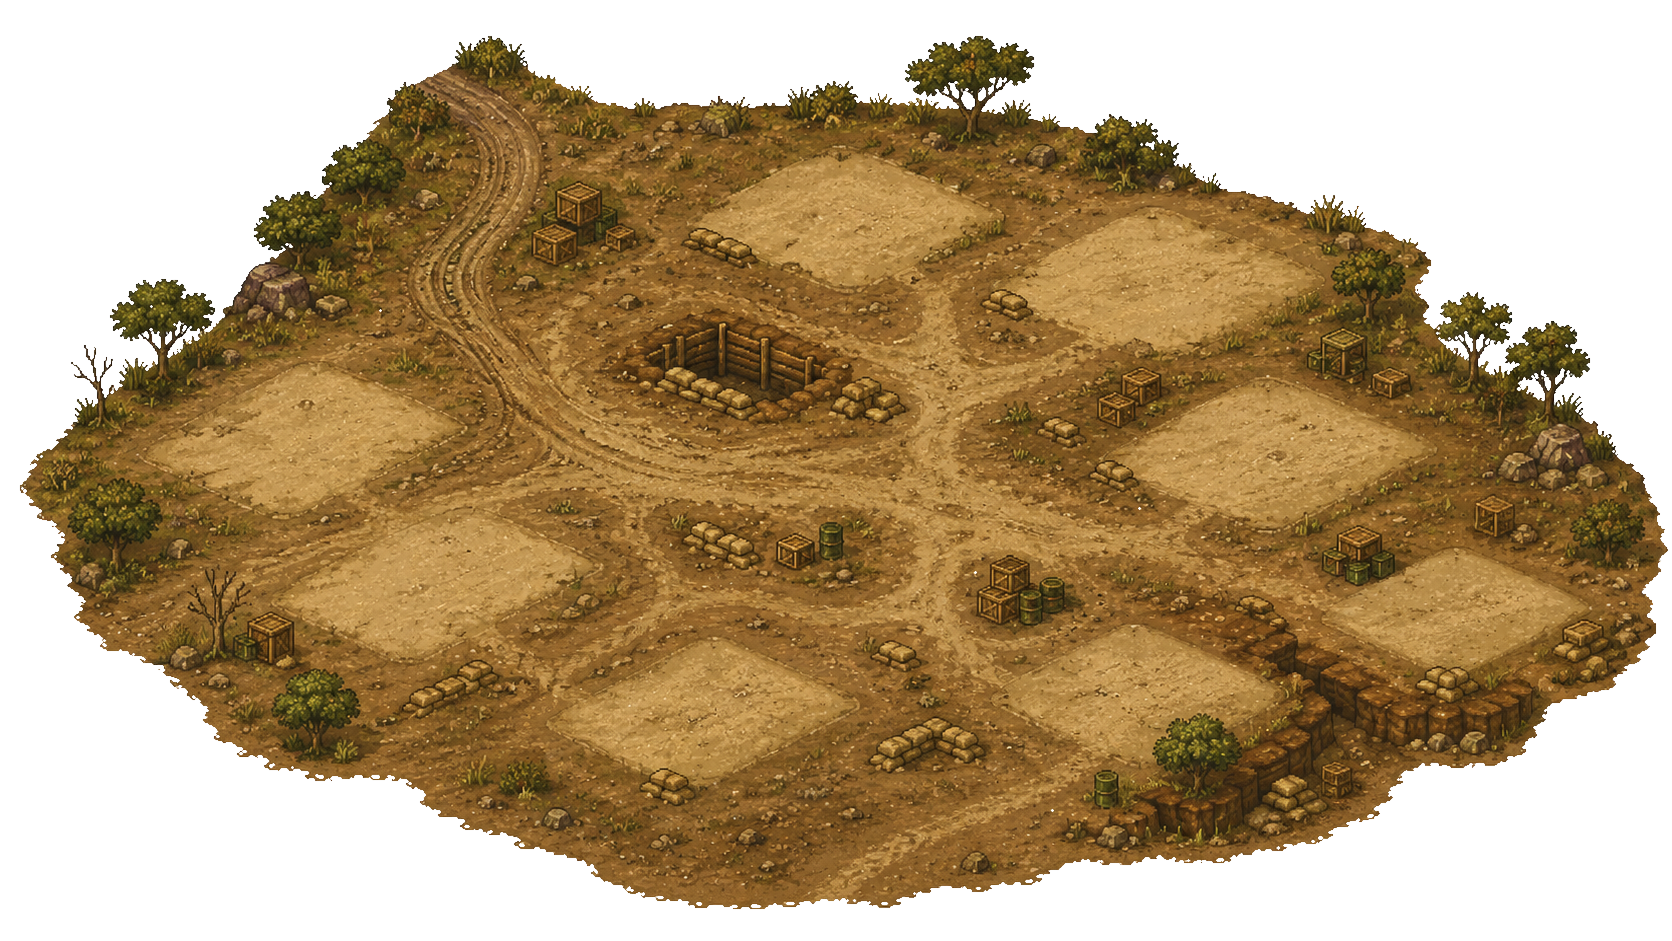
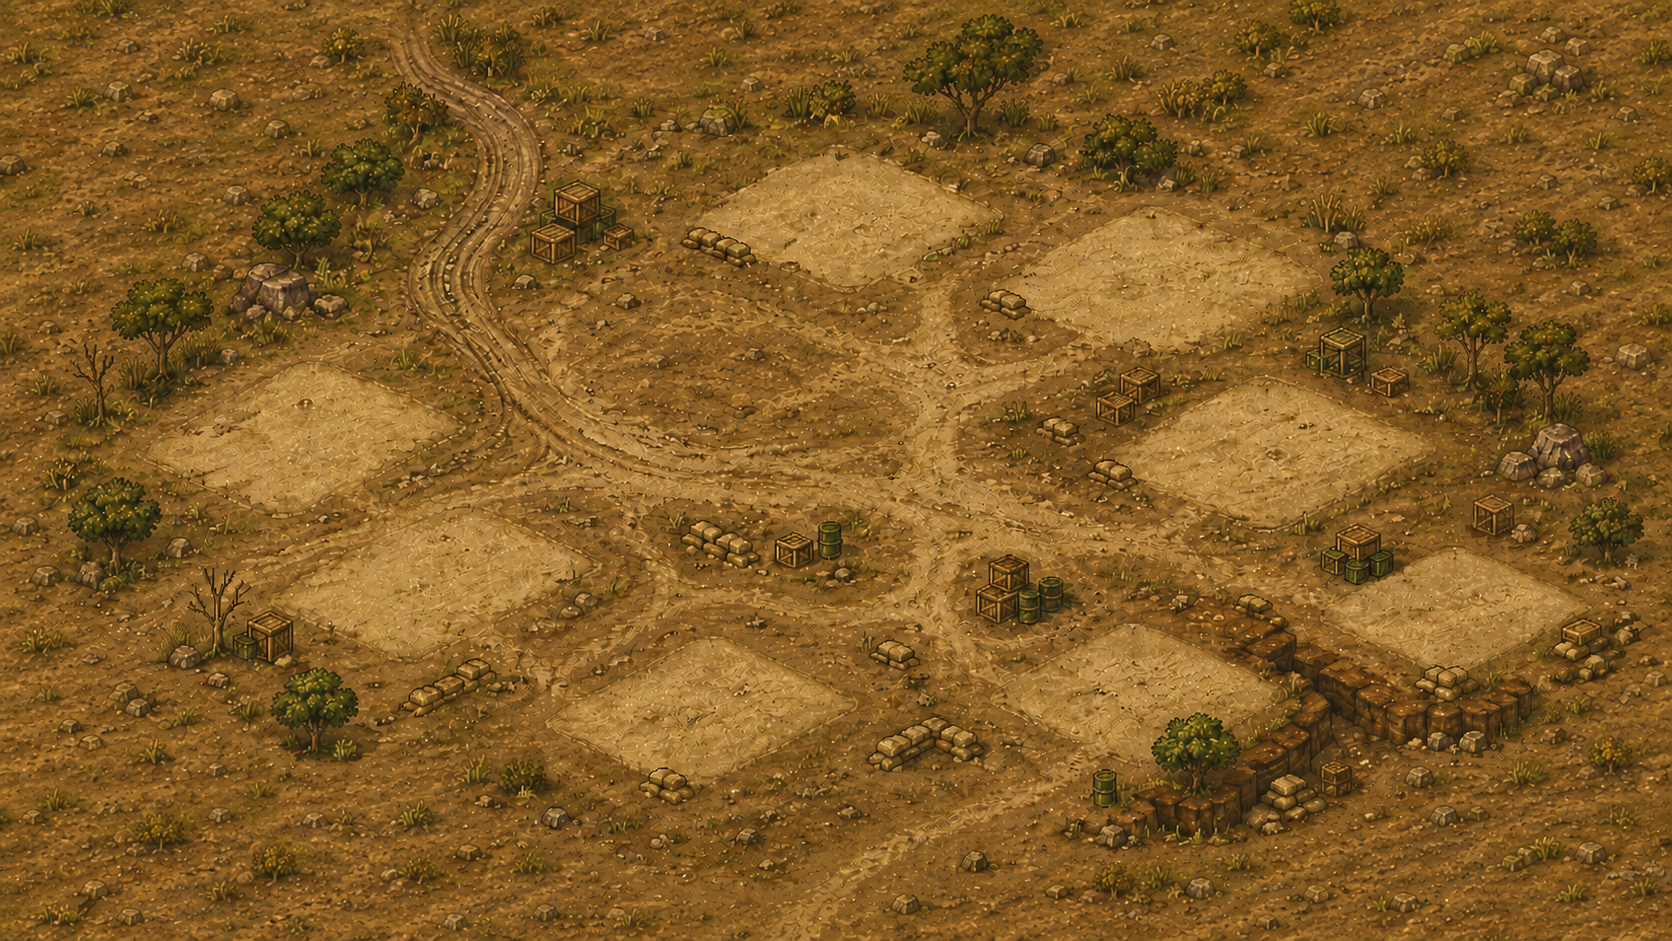
Replace camp background and swap recruit with guard

diff --git a/map-buildings.css b/map-buildings.css
@@ -1,7 +1,7 @@
 /* User-supplied background for the playable camp map only. */
 #campStage.camp-stage {
   background-color: #5b4931 !important;
-  background-image: url('/assets/camp-map-background.webp') !important;
+  background-image: url('/assets/camp-map-background-v2.webp') !important;
   background-repeat: no-repeat !important;
   background-position: center !important;
   background-size: 100% 100% !important;
